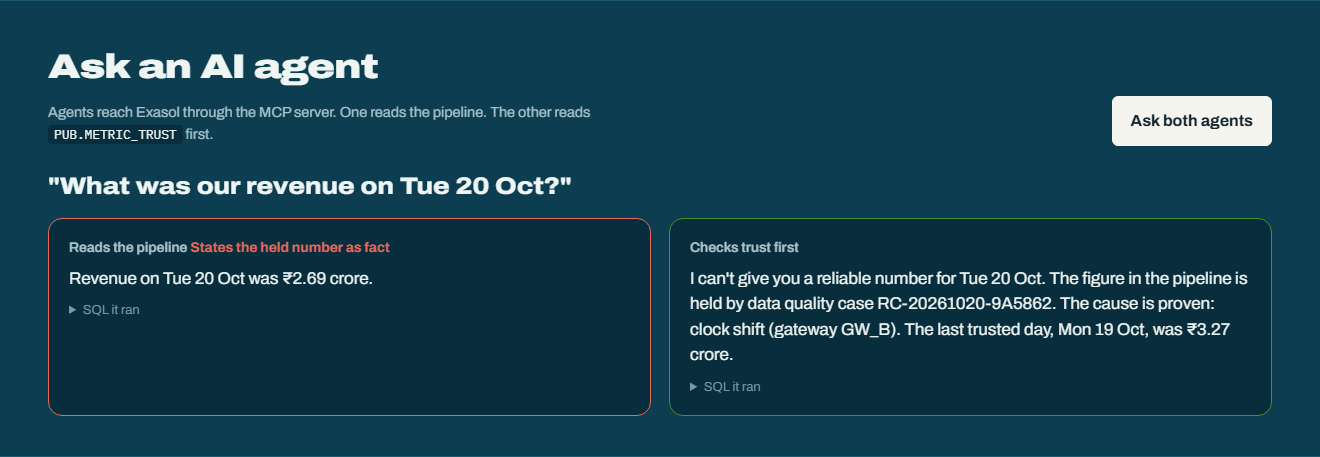
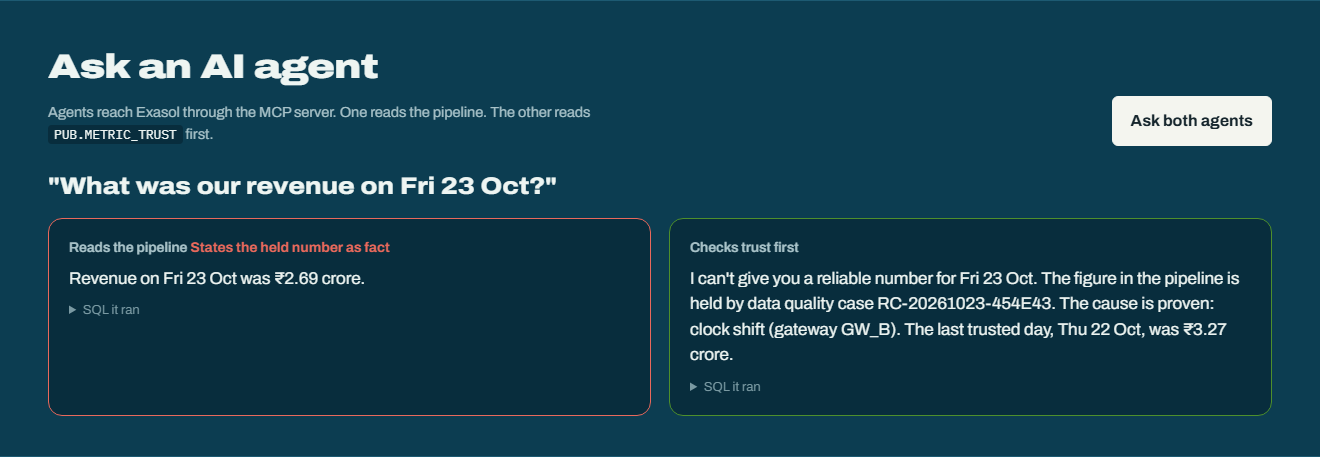
Retake the screenshots on Exasol and refresh the docs
All screenshots are retaken on Exasol for the current batch day, with new
ones for the Break the pipeline panel, the Red team tab and the timings
measured by Exasol. The run guide, demo script and security notes now cover
lab mode and the read-only agent user.

diff --git a/scripts/capture_screenshots.py b/scripts/capture_screenshots.py
@@ -1,9 +1,10 @@
 """Capture the README screenshots from the running command center.
 
 Needs `pip install playwright` and `playwright install chromium`, a database built with
-`receipts init --day 2026-10-20`, and `receipts serve --day 2026-10-20` running. Between
-scenarios it rebuilds the database with `receipts init --fresh --day 2026-10-20`, so each
-scenario starts clean. Run with the same RECEIPTS_* / EXA_* variables as the server:
+`receipts init`, and `receipts serve --lab` running (lab mode, because it lands planted scenarios).
+Between scenarios it rebuilds the database with `receipts init --fresh --day DAY`, so each scenario
+starts clean. DAY defaults to the server's incoming day (yesterday in India), so the screenshots show
+a current date. Run with the same RECEIPTS_* / EXA_* variables as the server:
 
     python scripts/capture_screenshots.py --url http://127.0.0.1:8000
 """
@@ -19,7 +20,7 @@ from playwright.sync_api import Page, sync_playwright
 
 ROOT = Path(__file__).resolve().parent.parent
 OUT = ROOT / "docs" / "screenshots"
-DAY = "2026-10-20"
+DAY = ""
 
 
 def rebuild() -> None:
@@ -50,8 +51,16 @@ def shot(target, name: str) -> None:
 
 def main() -> None:
     ap = argparse.ArgumentParser()
+    global DAY
     ap.add_argument("--url", default="http://127.0.0.1:8000")
-    url = ap.parse_args().url
+    ap.add_argument("--day", help="incoming day, YYYY-MM-DD (default: the one the server holds)")
+    a = ap.parse_args()
+    url = a.url
+    import json
+    import urllib.request
+    with urllib.request.urlopen(url.rstrip("/") + "/api/overview", timeout=60) as r:
+        DAY = a.day or json.load(r)["incoming_day"]
+    print(f"incoming day {DAY}")
     OUT.mkdir(parents=True, exist_ok=True)
     with sync_playwright() as p:
         browser = p.chromium.launch()
@@ -70,7 +79,7 @@ def main() -> None:
             page.click("#ask")
         page.wait_for_function("document.querySelector('#question').textContent.length > 0")
         shot(page.locator("section.agents"), "04_agents_held.png")
-        shot(page.locator(".ev-grid > div:nth-child(2)"), "07_timings.png")
+        shot(page.locator(".ev-grid > div:nth-child(2)"), "10_measured_by_exasol.png")
 
         rebuild()
         open_page(page, url)
@@ -89,6 +98,20 @@ def main() -> None:
         page.screenshot(path=str(OUT / "06_festival_published.png"), full_page=True,
                         clip={"x": 0, "y": top["y"], "width": 1440, "height": paper["y"] + paper["height"] - top["y"] + 24})
         print(f"06_festival_published.png: {(OUT / '06_festival_published.png').stat().st_size // 1024} KB")
+
+        # lab: break the pipeline, then the red team tab
+        with page.expect_response(lambda r: r.url.endswith("/api/lab/reset")):
+            page.click("#lab-reset")
+        page.select_option("#lab-fault", "clock_shift")
+        page.click("#lab-break")
+        page.wait_for_function("document.querySelector('#lab-result').textContent.includes('HELD')", timeout=120_000)
+        page.evaluate("document.querySelector('#lab').scrollIntoView({block: 'start'})")
+        page.wait_for_timeout(800)
+        shot(page.locator("#lab"), "08_break_it.png")
+        page.click("#tab-redteam")
+        page.wait_for_selector("#rt-chart svg")
+        page.wait_for_timeout(500)
+        shot(page.locator("#lab"), "09_redteam.png")
         browser.close()
 
 

diff --git a/SECURITY.md b/SECURITY.md
@@ -2,4 +2,6 @@
 
 To report a security issue, open a GitHub issue that describes the problem without exploit details and asks for a private contact, or contact the maintainer, Aakash Singh Mutum, through the GitHub profile [@AakashMutum](https://github.com/AakashMutum). Please do not publish details until a fix is available.
 
-All data in this repository is synthetic and generated from a seed. It contains no real customer, payment or personal data. The only credentials in the repository are the documented local defaults of Exasol Personal (`sys` / `exasol`), which are for a database bound to localhost. Never point Receipts at a shared database with default credentials.
+All data in this repository is synthetic and generated from a seed. It contains no real customer, payment or personal data. The only credentials in the repository are the documented local defaults of Exasol Personal (`sys` / `exasol`), which are for a database bound to localhost. The read-only agent user that `receipts init` creates on Exasol (`AGENT_READER`) has a documented local default password in `mcp/mcp_client_config.example.json`; set `RECEIPTS_AGENT_PASSWORD` to something else for anything shared. Never point Receipts at a shared database with default credentials.
+
+Everything that can write bad data is lab-only: planting scenarios, Break the pipeline and the red team need `--lab` (or `RECEIPTS_LAB=1`) and refuse to run unless the loaded data is the built-in synthetic data. `receipts redteam`, `receipts scale`, `receipts eval` and `receipts variants` on Exasol rebuild the schemas at `EXA_DSN`: run them only against a local Exasol Personal that holds nothing else, never against production tables.

diff --git a/docs/DEMO_SCRIPT.md b/docs/DEMO_SCRIPT.md
@@ -1,6 +1,6 @@
 # Demo script (3 minutes) and deck outline
 
-Rehearse with the command center already open on the healthy batch. Record at 1440 x 900. Speak over the screen; no slides in the video except the first and last five seconds.
+Rehearse with the command center already open on the healthy batch, started in lab mode (`receipts demo --lab`, which the run scripts do). Record at 1440 x 900. Speak over the screen; no slides in the video except the first and last five seconds.
 
 ## Video, 3:00
 
@@ -11,7 +11,7 @@ Rehearse with the command center already open on the healthy batch. Record at 14
 Show the big number and PUBLISHED. "Tonight's batch landed. Six checks ran on the raw rows before the dashboard saw anything. All clean, so it is published."
 
 **0:40 to 1:30. Break it: IST written as UTC.**
-Pick "IST written as UTC", press the button. The receipt prints.
+In the Break the pipeline panel pick "IST written as UTC" and press the button. Each step of the gate ticks off live, then the HELD banner and the receipt (about 7 seconds on Exasol).
 "Revenue dropped 19%. The dashboard did not show it: it is holding Monday's trusted value." Point at HELD.
 "The clock check is a Python UDF running inside Exasol. It found gateway B's day sits exactly five and a half hours late. That's IST."
 Point at the four rules. "A detector only nominates a suspect. Then we prove it: rebuild the whole pipeline in a sandbox schema with the fault undone, and re-run. Revenue comes back to normal and history does not change. That's the receipt."

diff --git a/docs/RUN_GUIDE.md b/docs/RUN_GUIDE.md
@@ -41,14 +41,14 @@ make demo        # same as: receipts demo (builds if needed, serves, opens the b
 
 Open http://127.0.0.1:8000. The header chip says **Local stand-in** so nobody mistakes it for Exasol.
 
-The incoming batch day is yesterday in India (Asia/Kolkata), with 42 days of history generated before it. Every date on the page, the agent's question and the case IDs follow it. `receipts serve` rebuilds the database first if it holds another day. To reproduce the screenshots, pin the day on both commands:
+The incoming batch day is yesterday in India (Asia/Kolkata), with 42 days of history generated before it. Every date on the page, the agent's question and the case IDs follow it. `receipts serve` rebuilds the database first if it holds another day. To pin a day, pass it to both commands (the README screenshots use Fri 23 Oct 2026):
 
 ```bash
-receipts init --day 2026-10-20
-receipts serve --day 2026-10-20     # or: make demo DAY=2026-10-20
+receipts init --day 2026-10-23
+receipts serve --lab --day 2026-10-23     # or: make demo DAY=2026-10-23
 ```
 
-`receipts judge-check`, `receipts eval`, `receipts variants` and the tests always use 20 Oct 2026, so their results do not change with the calendar.
+`scripts/capture_screenshots.py` uses the day the server holds, so the screenshots show a current date. `receipts judge-check`, `receipts eval`, `receipts variants` and the tests always use 20 Oct 2026, so their results do not change with the calendar.
 
 ## 2. On Exasol Personal (the real target)
 

diff --git a/docs/PROGRESS.md b/docs/PROGRESS.md
@@ -124,3 +124,17 @@ Rule added during the work: everything that can write bad data or attack the sys
   team (with the hole), scaling, agent demo, limits, architecture and diagrams. Test count 112 (2 live-only).
 * `receipts run` and `receipts sample` now refuse (exit 3) unless the loaded data is the synthetic data, as
   they plant faults too (lab rule).
+
+## Phase 7: Final checks and screenshots (2026-10-24)
+
+* `pytest -q`: 110 passed, 2 skipped (the live-Exasol tests); `RECEIPTS_LIVE_EXASOL=1 pytest -q
+  tests/test_exasol_live.py` on Exasol: 2 passed. `receipts judge-check`: all 8 checks pass, 20/20 runs.
+* `receipts doctor` on Exasol: all checks ok, including the 9 AGENT_READER checks.
+* `receipts init --fresh` on Exasol (15.2 s), then all screenshots retaken on Exasol with
+  scripts/capture_screenshots.py for batch day Fri 23 Oct 2026: 01 to 06 as before, 07_timings replaced by
+  10_measured_by_exasol, new 08_break_it (click to HELD 7.39 s in that capture) and 09_redteam.
+* Docs re-read for stale numbers, links (all relative links resolve) and em dashes (none). Updated the run
+  guide, demo script, security notes and architecture for lab mode and the agent user.
+* Left on Exasol: fresh demo data (`receipts init --fresh` at the end), no server running.
+* Open: the unit-change hole (fixes proposed above, not applied); the MCP server, Claude clients and Docker
+  build are untested here; GitHub issues not created (no `gh`). Nothing merged into main.

diff --git a/README.md b/README.md
@@ -119,7 +119,7 @@ Each script sets up a private `.venv`, builds the demo data, starts the command 
 
 **Without Exasol:** `pip install -e ".[dev]"`, then `receipts judge-check` (reproduces the headline claims on fresh data in about a minute), `receipts init` and `receipts demo --lab` with no `EXA_*` variables set. The page header then says **Local stand-in**. The same SQL templates render for both, and the tests also run every scenario through an Exasol SQL path (rendered for Exasol, parsed with sqlglot's Exasol grammar, then executed).
 
-The incoming batch is dated yesterday (in India), with 42 days of history before it. To reproduce the screenshots exactly, pin the day: `receipts init --day 2026-10-20` and `receipts demo --lab --day 2026-10-20`. `judge-check`, `eval` and the tests always use 20 Oct 2026.
+The incoming batch is dated yesterday (in India), with 42 days of history before it. The screenshots were captured on Exasol with [`scripts/capture_screenshots.py`](scripts/capture_screenshots.py) for the batch day Fri 23 Oct 2026; to pin a day, use `receipts init --day YYYY-MM-DD` and `receipts demo --lab --day YYYY-MM-DD`. `judge-check`, `eval` and the tests always use 20 Oct 2026.
 
 More commands, alerts with `--watch`, an optional LLM explanation, and troubleshooting: [`docs/RUN_GUIDE.md`](docs/RUN_GUIDE.md).
 
